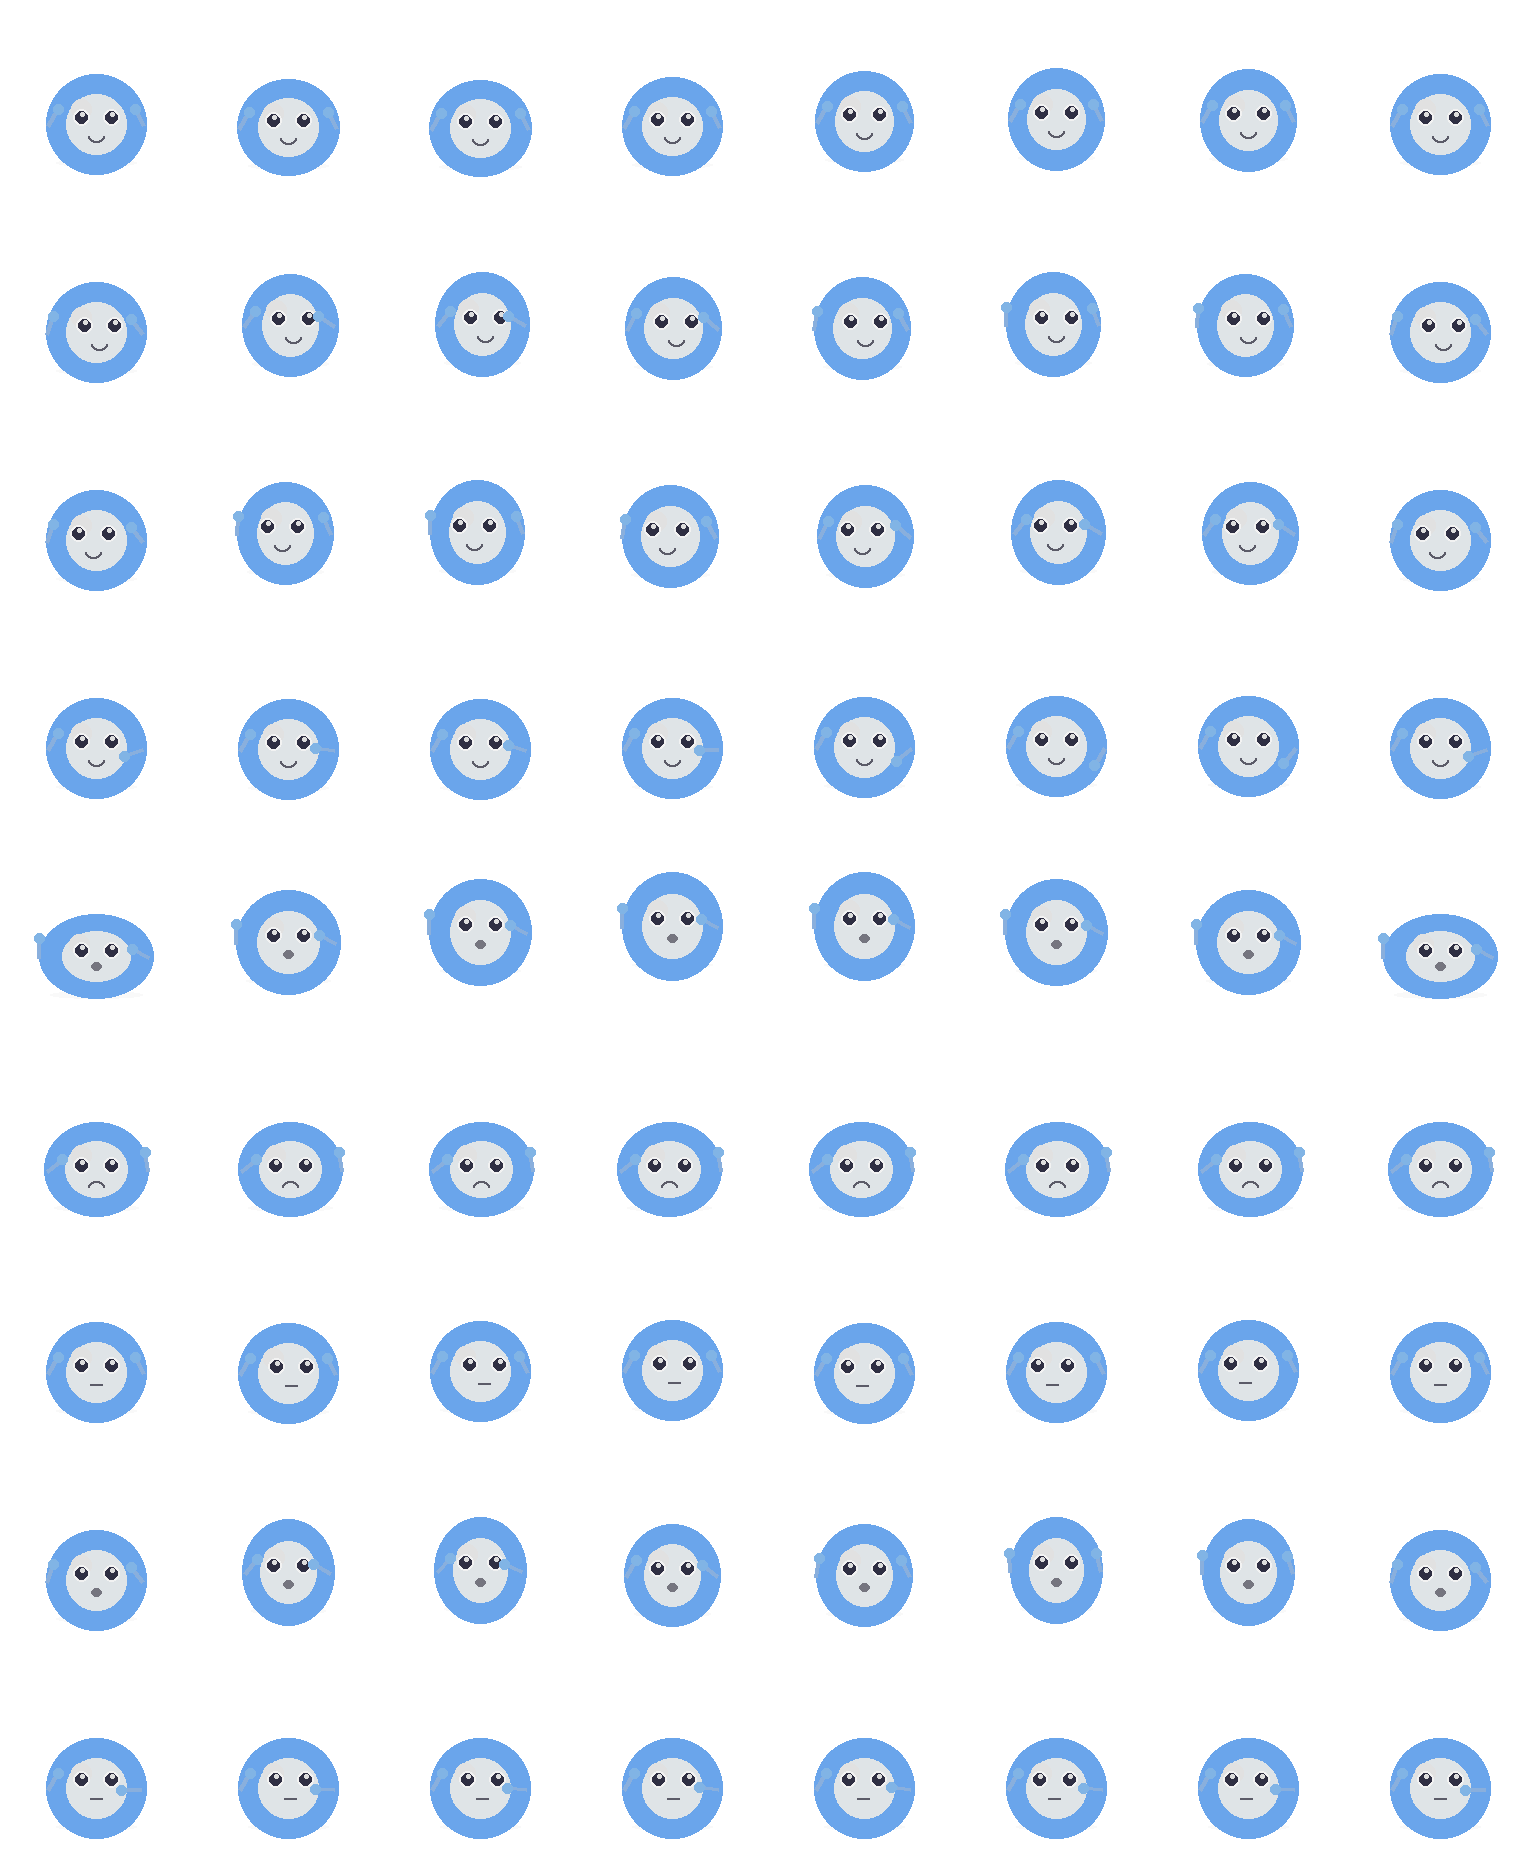
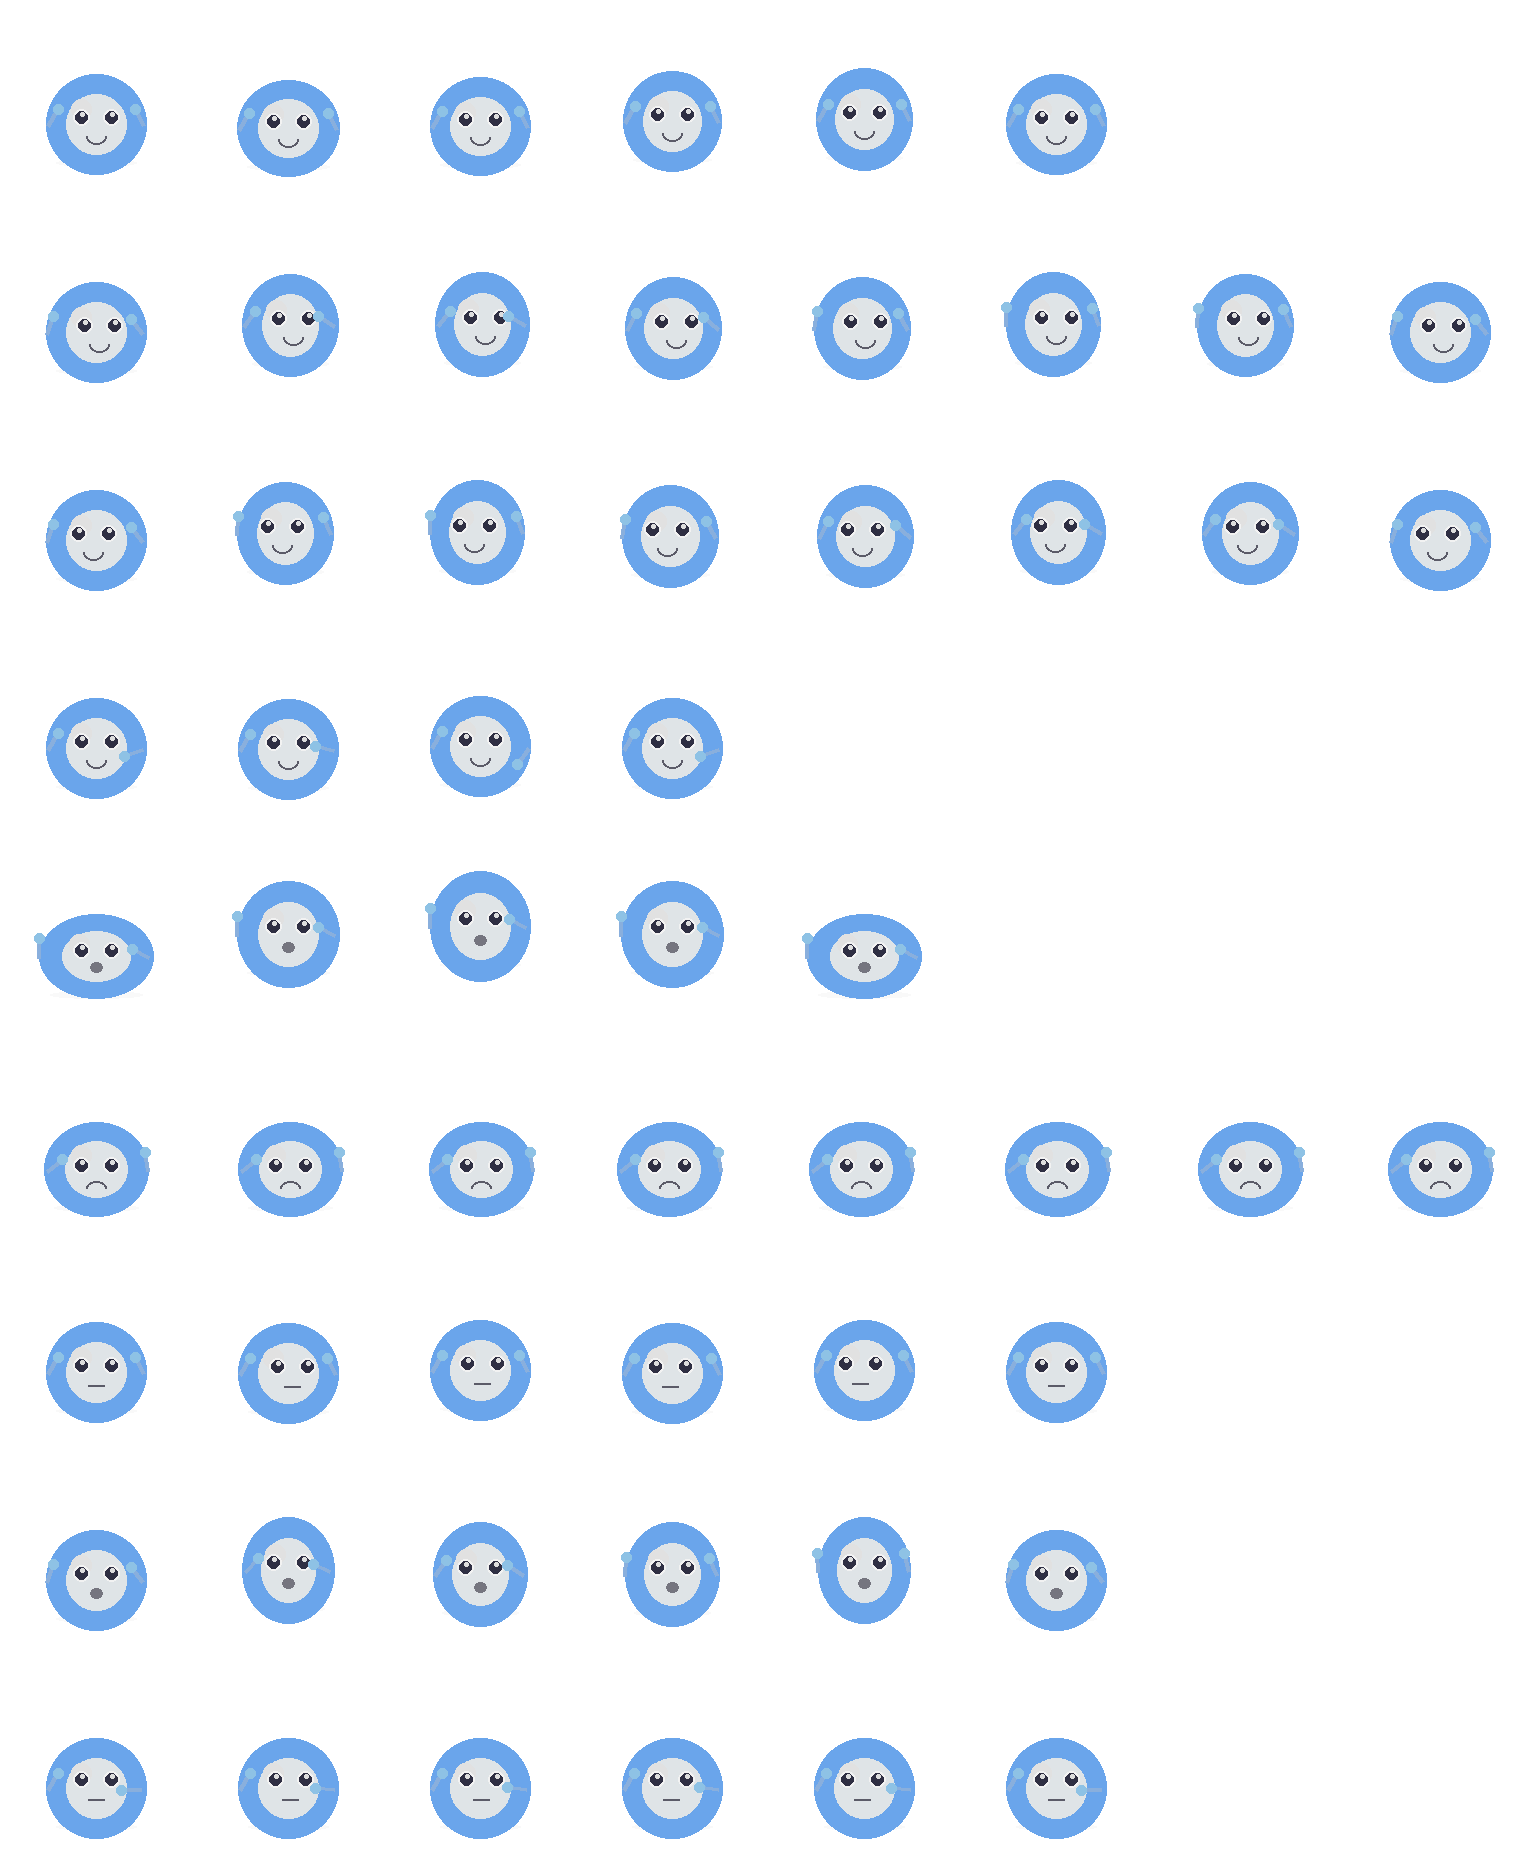
feat: Codex-style per-frame durations and variable frame counts
- Add per-frame durations to pet.json manifest (Codex timing spec)
- desktop_pet: support durations array with flat fps fallback
- generate_demo_atlas.py: use Codex STATE_CONFIG with per-row frame counts
- validate_atlas.py: only flag unexpected empty cells (respect declared frames)
- Regenerate all 3 pet atlases with improved animation timing
  - idle: 6 frames [280,110,110,140,140,320]ms
  - running-right/left: 8 frames [120,...,220]ms
  - waving: 4 frames [140,140,140,280]ms
  - jumping: 5 frames, failed: 8, waiting: 6, running: 6, review: 6

diff --git a/scripts/validate_atlas.py b/scripts/validate_atlas.py
@@ -27,6 +27,16 @@ def validate_atlas(atlas_path: str, manifest_path: str = None):
     errors = []
     warnings = []
 
+    # Read manifest first to know expected frame counts per state
+    state_frame_counts = {}
+    state_durations = {}
+    if manifest_path and os.path.exists(manifest_path):
+        with open(manifest_path, "r", encoding="utf-8") as f:
+            manifest_data = json.load(f)
+        for s in manifest_data.get("states", []):
+            state_frame_counts[s["name"]] = s.get("frames", EXPECTED_COLS)
+            state_durations[s["name"]] = s.get("durations", [])
+
     # Validate image
     if not os.path.exists(atlas_path):
         return [f"Atlas file not found: {atlas_path}"], []
@@ -42,40 +52,44 @@ def validate_atlas(atlas_path: str, manifest_path: str = None):
     if h != EXPECTED_HEIGHT:
         errors.append(f"Atlas height is {h}, expected {EXPECTED_HEIGHT}")
 
-    # Check for non-transparent content in each cell
+    # Check cells: only flag empty cells within declared frame range
     empty_cells = []
     for row in range(EXPECTED_ROWS):
+        state_name = EXPECTED_STATES[row] if row < len(EXPECTED_STATES) else None
+        max_col = state_frame_counts.get(state_name, EXPECTED_COLS) if state_name else EXPECTED_COLS
         for col in range(EXPECTED_COLS):
             x1 = col * FRAME_WIDTH
             y1 = row * FRAME_HEIGHT
             x2 = x1 + FRAME_WIDTH
             y2 = y1 + FRAME_HEIGHT
             cell = img.crop((x1, y1, x2, y2))
-            # Check if cell has any non-transparent pixels
             if cell.mode == "RGBA":
                 alpha = cell.split()[3]
                 if alpha.getextrema() == (0, 0):
-                    empty_cells.append(f"Row {row} ({EXPECTED_STATES[row] if row < len(EXPECTED_STATES) else 'unknown'}), Col {col}")
+                    if col < max_col:
+                        empty_cells.append(f"Row {row} ({state_name or 'unknown'}), Col {col} (expected non-empty)")
 
     if empty_cells:
-        warnings.append(f"Found {len(empty_cells)} empty/transparent cells: {', '.join(empty_cells[:5])}{'...' if len(empty_cells) > 5 else ''}")
+        errors.append(f"Found {len(empty_cells)} unexpectedly empty cells: {', '.join(empty_cells[:5])}{'...' if len(empty_cells) > 5 else ''}")
 
     # Validate manifest
     if manifest_path and os.path.exists(manifest_path):
-        with open(manifest_path, "r", encoding="utf-8") as f:
-            manifest = json.load(f)
+        if manifest_data.get("frame_width") != FRAME_WIDTH:
+            errors.append(f"Manifest frame_width is {manifest_data.get('frame_width')}, expected {FRAME_WIDTH}")
+        if manifest_data.get("frame_height") != FRAME_HEIGHT:
+            errors.append(f"Manifest frame_height is {manifest_data.get('frame_height')}, expected {FRAME_HEIGHT}")
+        if manifest_data.get("columns") != EXPECTED_COLS:
+            errors.append(f"Manifest columns is {manifest_data.get('columns')}, expected {EXPECTED_COLS}")
 
-        if manifest.get("frame_width") != FRAME_WIDTH:
-            errors.append(f"Manifest frame_width is {manifest.get('frame_width')}, expected {FRAME_WIDTH}")
-        if manifest.get("frame_height") != FRAME_HEIGHT:
-            errors.append(f"Manifest frame_height is {manifest.get('frame_height')}, expected {FRAME_HEIGHT}")
-        if manifest.get("columns") != EXPECTED_COLS:
-            errors.append(f"Manifest columns is {manifest.get('columns')}, expected {EXPECTED_COLS}")
-
-        manifest_states = [s["name"] for s in manifest.get("states", [])]
+        manifest_states = [s["name"] for s in manifest_data.get("states", [])]
         for expected in EXPECTED_STATES:
             if expected not in manifest_states:
                 warnings.append(f"Missing state in manifest: {expected}")
+
+        # Check durations match frame counts
+        for s in manifest_data.get("states", []):
+            if s.get("durations") and len(s["durations"]) != s.get("frames", 0):
+                warnings.append(f"State '{s['name']}': durations count ({len(s['durations'])}) != frames ({s.get('frames')})")
 
     # Print results
     print(f"\n=== Atlas Validation: {atlas_path} ===")

diff --git a/scripts/generate_demo_atlas.py b/scripts/generate_demo_atlas.py
@@ -27,6 +27,19 @@ STATE_NAMES = [
     "jumping", "failed", "waiting", "running", "review",
 ]
 
+# Codex-style per-frame durations (ms) and frame counts per state
+STATE_CONFIG = {
+    "idle":          {"frames": 6, "durations": [280, 110, 110, 140, 140, 320]},
+    "running-right": {"frames": 8, "durations": [120, 120, 120, 120, 120, 120, 120, 220]},
+    "running-left":  {"frames": 8, "durations": [120, 120, 120, 120, 120, 120, 120, 220]},
+    "waving":        {"frames": 4, "durations": [140, 140, 140, 280]},
+    "jumping":       {"frames": 5, "durations": [140, 140, 140, 140, 280]},
+    "failed":        {"frames": 8, "durations": [140, 140, 140, 140, 140, 140, 140, 240]},
+    "waiting":       {"frames": 6, "durations": [150, 150, 150, 150, 150, 260]},
+    "running":       {"frames": 6, "durations": [120, 120, 120, 120, 120, 220]},
+    "review":        {"frames": 6, "durations": [150, 150, 150, 150, 150, 280]},
+}
+
 # Preset creature definitions: (body_color, eye_color, accent_color, creature_type)
 PRESETS = {
     "blue-slime":  {"body": (80, 160, 255), "eye": (40, 40, 60),   "accent": (130, 200, 255), "type": "slime"},
@@ -195,10 +208,11 @@ def generate_atlas(output_dir: str, pet_name: str,
     states_config = []
 
     for row, state_name in enumerate(STATE_NAMES):
-        for col in range(COLUMNS):
+        num_frames = STATE_CONFIG[state_name]["frames"]
+        for col in range(num_frames):
             frame = Image.new("RGBA", (FRAME_WIDTH, FRAME_HEIGHT), (0, 0, 0, 0))
             d = ImageDraw.Draw(frame)
-            t = col / max(COLUMNS - 1, 1)
+            t = col / max(num_frames - 1, 1)
 
             kwargs = {
                 "body_color": body_color,
@@ -277,8 +291,13 @@ def generate_atlas(output_dir: str, pet_name: str,
             y = row * FRAME_HEIGHT
             atlas.paste(frame, (x, y), frame)
 
-        fps = {"idle": 8, "waiting": 8, "review": 8, "failed": 6}.get(state_name, 10)
-        states_config.append({"name": state_name, "row": row, "frames": COLUMNS, "fps": fps})
+        cfg = STATE_CONFIG[state_name]
+        states_config.append({
+            "name": state_name,
+            "row": row,
+            "frames": cfg["frames"],
+            "durations": cfg["durations"],
+        })
 
     # Save atlas
     atlas_path = os.path.join(output_dir, f"{pet_name}_atlas.png")

diff --git a/scripts/desktop_pet.py b/scripts/desktop_pet.py
@@ -125,6 +125,7 @@ class DesktopPet:
                 self.states[s["name"]] = {
                     "row": s["row"], "frames": s["frames"],
                     "fps": s.get("fps", DEFAULT_FPS),
+                    "durations": s.get("durations", []),
                 }
         else:
             for i, name in enumerate(STATE_NAMES):
@@ -300,9 +301,15 @@ class DesktopPet:
 
         self.current_frame %= len(frames)
         self.canvas.itemconfig(self.photo_item, image=frames[self.current_frame])
-        self.current_frame += 1
 
-        delay = int(1000 / state.get("fps", DEFAULT_FPS))
+        # Determine delay: per-frame durations > flat fps
+        durations = state.get("durations", [])
+        if durations and self.current_frame < len(durations):
+            delay = durations[self.current_frame]
+        else:
+            delay = int(1000 / state.get("fps", DEFAULT_FPS))
+
+        self.current_frame += 1
         self.root.after(delay, self._animate)
 
     def set_state(self, state_name: str):
